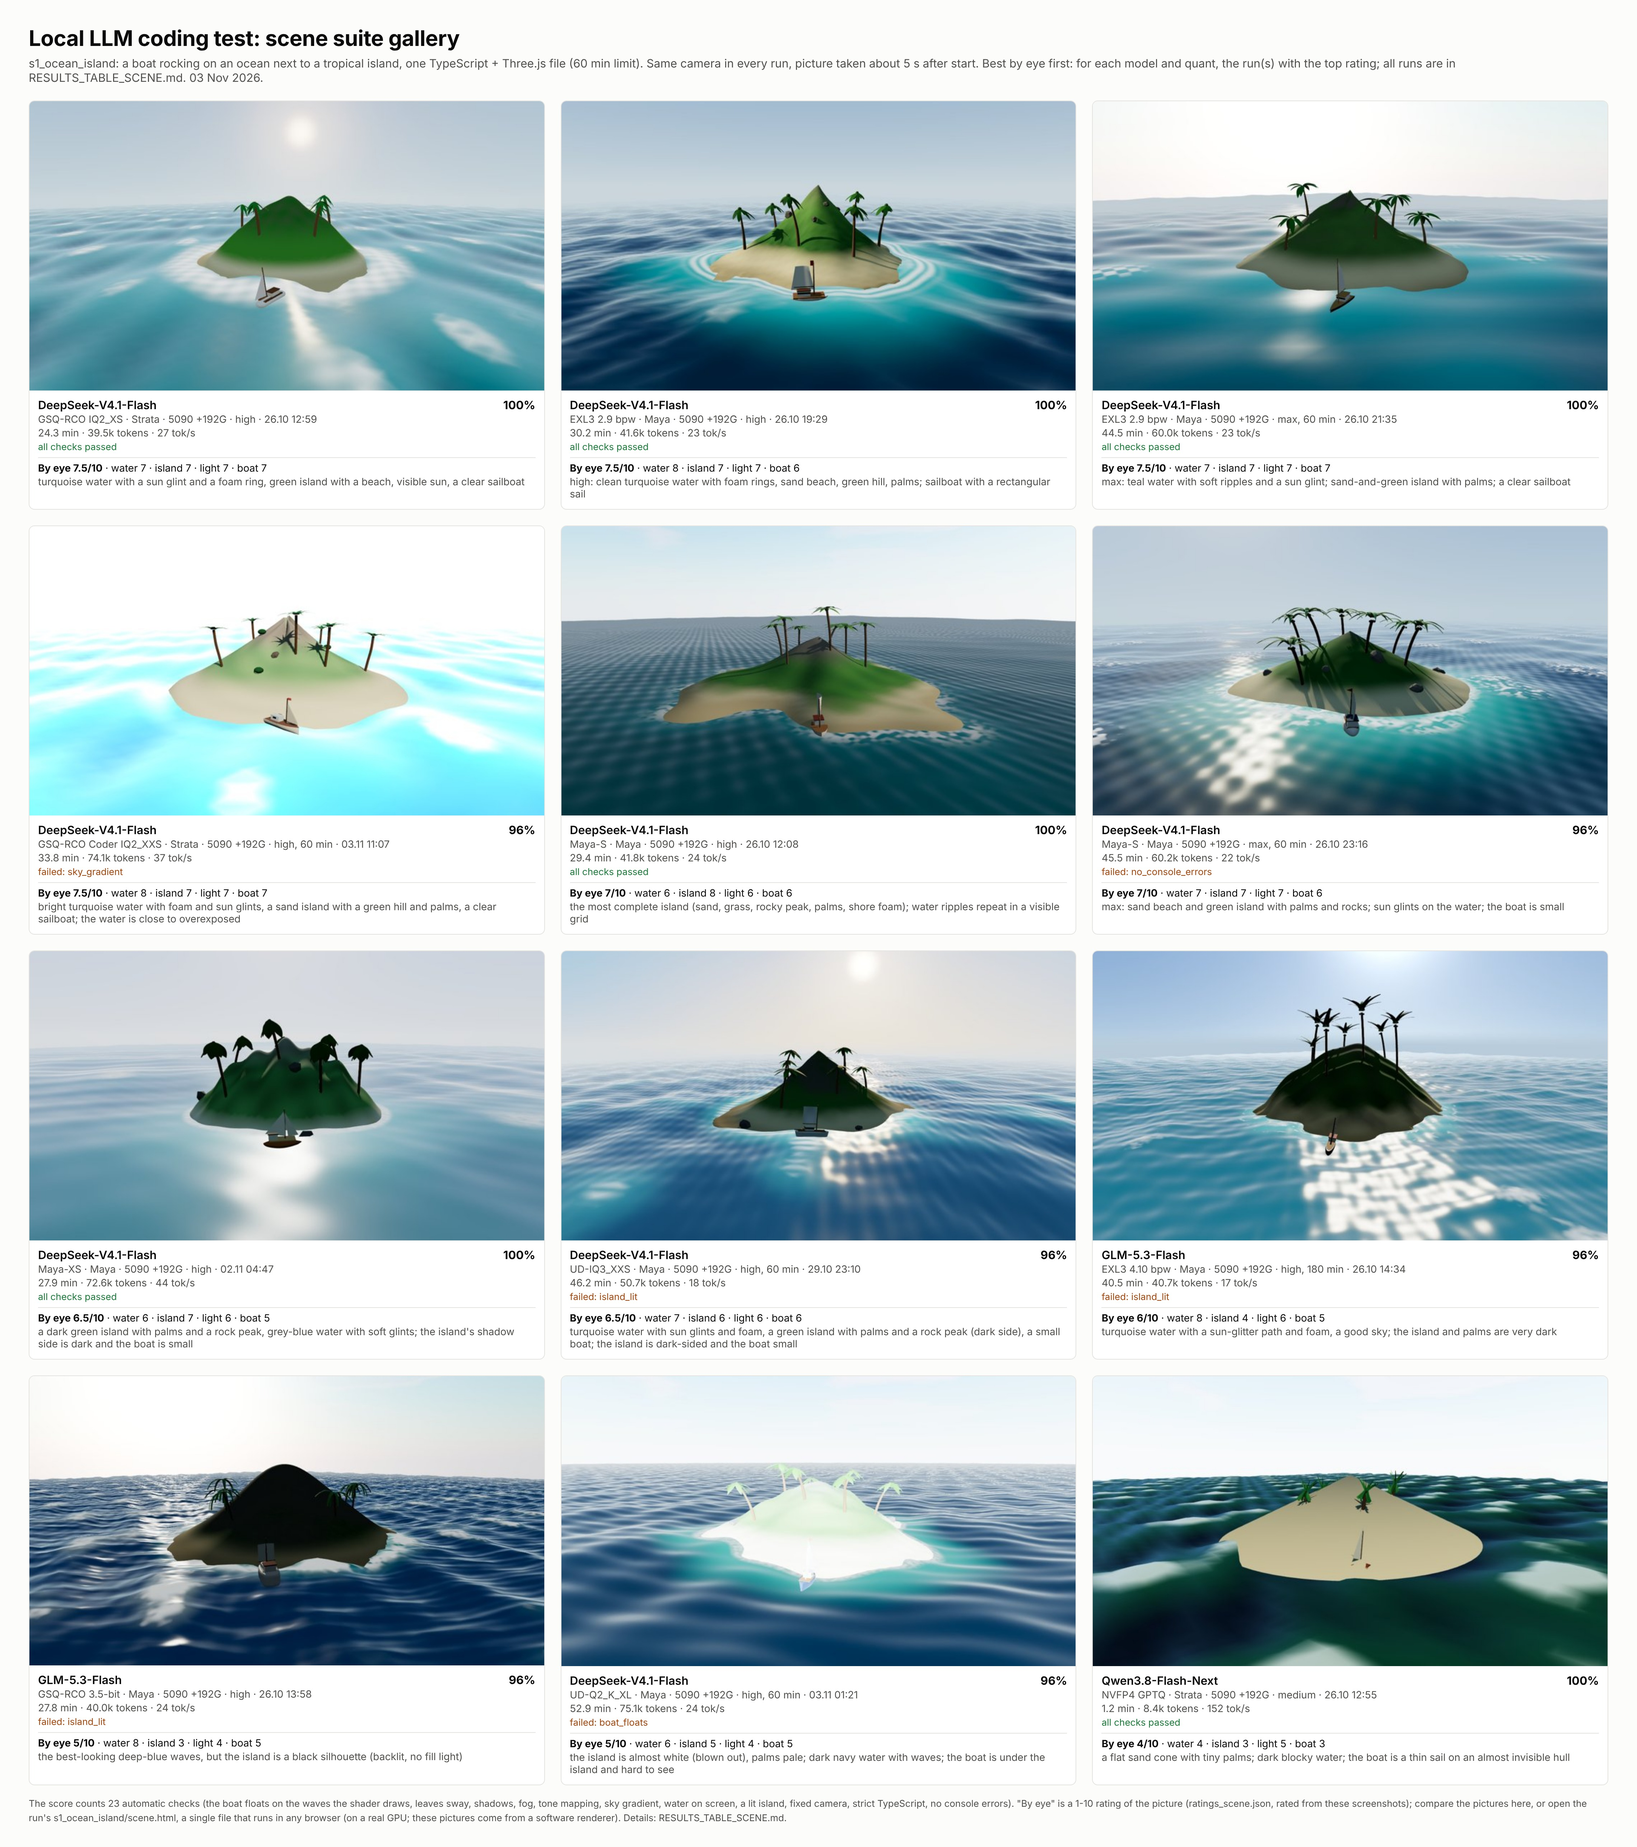
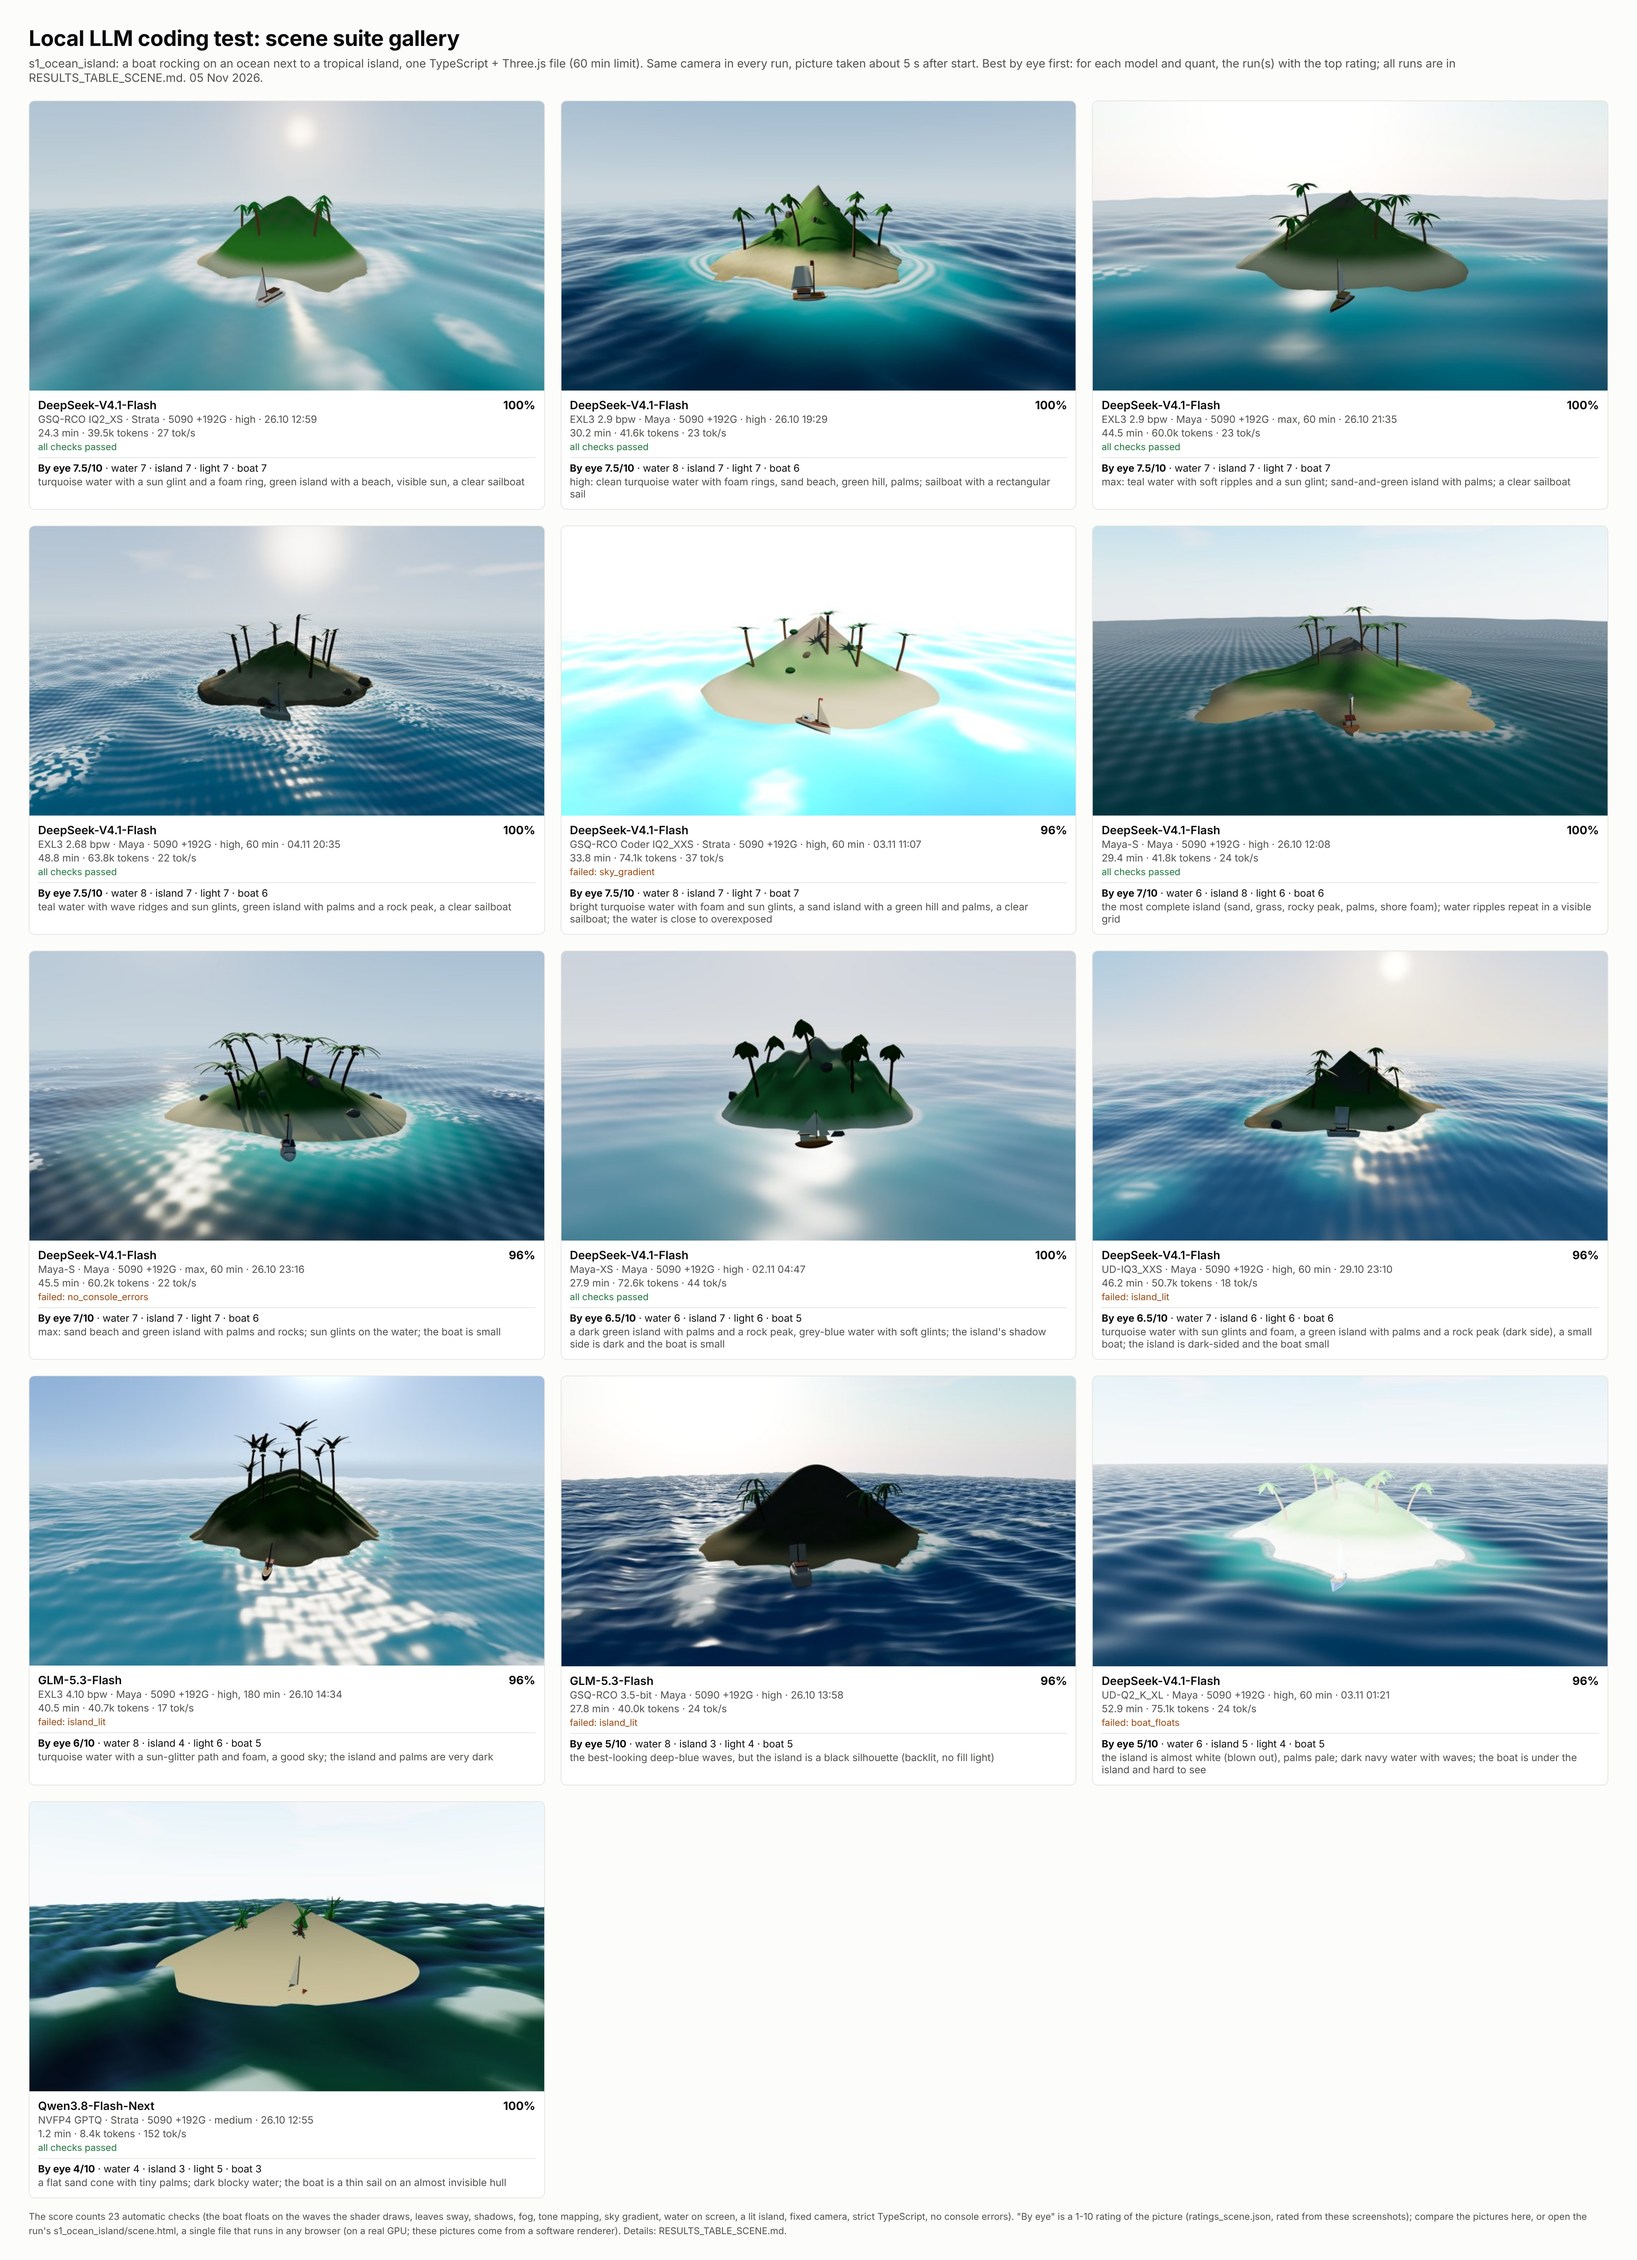
Tables and galleries: EXL3 2.68 bpw (turboderp) and EXL3 2.9 bpw (LibertAIDAI) runs
New engineering and scene runs for both files, rated by eye:
turboderp 2.68 watch 7, rocket 7, scene 7.5; LibertAIDAI 2.9 watch 5,
rocket 6, scene 6.5. Regenerated the tables and the galleries.

Claude-Session: https://claude.ai/code/session_01Hw6zjR7HPW2DCjpvk73ycY

diff --git a/RESULTS_TABLE_ENGINEERING.md b/RESULTS_TABLE_ENGINEERING.md
@@ -91,12 +91,14 @@ How real it looks, 1-10 per task (from [ratings_engineering.json](ratings_engine
 
 | Run | Model | Quant | Backend | Effort | Watch score | Watch by eye | Rocket score | Rocket by eye | Notes |
 |---|---|---|---|---|---|---|---|---|---|
+| 04.11 18:31 | DeepSeek-V4.1-Flash | EXL3 2.68 bpw | Maya | high | 86% | **7** | 95% | **7** | watch: full movement in the exploded view with labelled parts; clear wheel train, balance and escapement; labels overlap in the upper right and the plate is plain; rocket: pad, tower and rocket readable at 1 s, 2 s and 4 s, a small plume at 4 s; above 100 km the rocket against stars with a glow, no horizon in the frame |
 | 03.11 15:24 | DeepSeek-V4.1-Flash | UD-IQ3_XXS | Maya | high | 100% | **7** | 95% | **6.5** | watch: full movement in the exploded view with labels; gilded plate, gear train, blued screws, balance and hairspring read clearly; plain finish, parts small in the frame; rocket: pad, tower and plume stay readable at 1.2 s, 2 s and 4 s (white flame blobs at liftoff); above 100 km a dark sky with stars and the Earth's limb, with a glare in the upper left |
 | 28.10 19:55 | DeepSeek-V4.1-Flash | Maya-S | Maya | high | 100% | **6** | 100% | **6.5** | watch: perlage plate, gilded barrel with the mainspring, blued hairspring and steel parts, labels; the plate reads as silver rather than brass; rocket: tower, masts with wires, a rocket with a warm plume, grass and haze; steam is faint; above 100 km a dark blue sky with stars and the trail |
 | 02.11 23:34 | DeepSeek-V4.1-Flash | UD-Q2_K_XL | Maya | high | 95% | **6** | 95% | **6.5** | watch: gold plate with a dense grain, labelled train and balance, clear wheels and a crown; the grain looks knurled; rocket: pad with a lattice tower and masts with wires, a rocket with a white plume and haze; above 100 km the Earth's limb, stars and a bright trail |
 | 28.10 02:05 | DeepSeek-V4.1-Flash | Maya-S | Maya | high | 95% | **6** | 94% | **6.5** | watch: perlage plate (too coarse, looks knurled), Geneva-striped bridges, wheels visible between them, blued hands and hairspring; rocket: lattice tower, white rocket with a flag, a bright plume with a warm glow, haze; little steam; in space the sun, stars and the trail |
 | 28.10 03:57 | DeepSeek-V4.1-Flash | Maya-S | Maya | max | 100% | **5** | 94% | **6** | watch: gilded plate with perlage and a domed glass rim, but a strong depth-of-field blur hides the mechanism; rocket: tower, lightning masts with wires, low buildings, a white-hot plume; above 100 km the sky is still dark blue |
 | 29.10 01:14 | DeepSeek-V4.1-Flash | EXL3 2.9 bpw | Maya | max | 95% | **4.5** | 95% | **6.5** | watch: a small gold movement on a brown background, shadows, labels; the file fails to compile (TS7053), but the picture renders; rocket: a Falcon 9 on a pad with a lattice tower, masts with wires, a concrete flame trench, a white-hot plume; above 100 km the Earth's limb and a bright trail; the plume is very white, no steam |
+| 05.11 07:21 | DeepSeek-V4.1-Flash | EXL3 2.9 bpw | Maya | high | 100% | **5** | 89% | **6** | watch: exploded view with labels, but the wheels and bridges read as soft flat blobs; train and escapement are hard to tell apart; rocket: pad, tower and plume readable at 1 s and 4 s; above 100 km the view is low over blocky terrain and sea, not space |
 | 30.10 02:01 | DeepSeek-V4.1-Flash | UD-IQ3_XXS | Maya | high | 100% | **6.5** | 68% | **3** | watch: gilded plate with clear bridges, a gear train and blued parts, the balance and the stud read well; the finish is plain and the mechanism is small in the frame; rocket: launch frames are white haze (pad, tower and plume hardly visible at 2 s and 4 s); above 100 km a flame glow and the Earth's limb, but with stripe artefacts on the ground and a flat horizon |
 | 30.10 23:19 | GLM-5.3-Flash | EXL3 4.10 bpw | Maya | high | 14% | **4.5** | 84% | **4.5** | watch: gold plate with a hexagon pattern, a sparse gear train and labels; the balance is hard to see; rocket: liftoff and pad frames washed out to white haze; above 100 km a dark sky, the Earth's limb and a rocket with a flame |
 | 02.11 00:04 | DeepSeek-V4.1-Flash | Maya-XS | Maya | high | 100% | **5** | 79% | **3** | watch: dark speckled plate with a visible train, labels and balance; the finish looks dirty rather than polished; rocket: at 2 s the frame is empty sky (rocket not in view); at 4 s the pad with steam clouds and the rocket; above 100 km a dark sky with the rocket and a plume |

diff --git a/RESULTS_TABLE_SCENE.md b/RESULTS_TABLE_SCENE.md
@@ -94,12 +94,14 @@ How the picture looks, 1-10 per part (from [ratings_scene.json](ratings_scene.js
 | 26.10 12:59 | DeepSeek-V4.1-Flash | GSQ-RCO IQ2_XS | Strata | high | 100% | **7.5** | 7 | 7 | 7 | 7 | turquoise water with a sun glint and a foam ring, green island with a beach, visible sun, a clear sailboat |
 | 26.10 19:29 | DeepSeek-V4.1-Flash | EXL3 2.9 bpw | Maya | high | 100% | **7.5** | 8 | 7 | 7 | 6 | high: clean turquoise water with foam rings, sand beach, green hill, palms; sailboat with a rectangular sail |
 | 26.10 21:35 | DeepSeek-V4.1-Flash | EXL3 2.9 bpw | Maya | max, 60 min | 100% | **7.5** | 7 | 7 | 7 | 7 | max: teal water with soft ripples and a sun glint; sand-and-green island with palms; a clear sailboat |
+| 04.11 20:35 | DeepSeek-V4.1-Flash | EXL3 2.68 bpw | Maya | high, 60 min | 100% | **7.5** | 8 | 7 | 7 | 6 | teal water with wave ridges and sun glints, green island with palms and a rock peak, a clear sailboat |
 | 03.11 11:07 | DeepSeek-V4.1-Flash | GSQ-RCO Coder IQ2_XXS | Strata | high, 60 min | 96% | **7.5** | 8 | 7 | 7 | 7 | bright turquoise water with foam and sun glints, a sand island with a green hill and palms, a clear sailboat; the water is close to overexposed |
 | 26.10 12:08 | DeepSeek-V4.1-Flash | Maya-S | Maya | high | 100% | **7** | 6 | 8 | 6 | 6 | the most complete island (sand, grass, rocky peak, palms, shore foam); water ripples repeat in a visible grid |
 | 26.10 23:16 | DeepSeek-V4.1-Flash | Maya-S | Maya | max, 60 min | 96% | **7** | 7 | 7 | 7 | 6 | max: sand beach and green island with palms and rocks; sun glints on the water; the boat is small |
 | 02.11 04:47 | DeepSeek-V4.1-Flash | Maya-XS | Maya | high | 100% | **6.5** | 6 | 7 | 6 | 5 | a dark green island with palms and a rock peak, grey-blue water with soft glints; the island's shadow side is dark and the boat is small |
 | 26.10 16:43 | DeepSeek-V4.1-Flash | EXL3 2.9 bpw | Maya | low | 100% | **6.5** | 7 | 6 | 7 | 6 | low: sun glint and foam rings around the island; palm crowns look bushy and odd; sailboat small but clear |
 | 26.10 22:20 | DeepSeek-V4.1-Flash | EXL3 2.9 bpw | Maya | high, 60 min | 100% | **6.5** | 5 | 7 | 7 | 7 | high: the water shows a checkered grid pattern (a repeating ripple texture); island with palms and rocks; sailboat clear |
+| 05.11 09:51 | DeepSeek-V4.1-Flash | EXL3 2.9 bpw | Maya | high, 60 min | 96% | **6.5** | 7 | 6 | 6.5 | 6 | blue water with wave ridges, dotted foam rings around the island, green island with palms, a small sailboat |
 | 29.10 23:10 | DeepSeek-V4.1-Flash | UD-IQ3_XXS | Maya | high, 60 min | 96% | **6.5** | 7 | 6 | 6 | 6 | turquoise water with sun glints and foam, a green island with palms and a rock peak (dark side), a small boat; the island is dark-sided and the boat small |
 | 27.10 00:01 | DeepSeek-V4.1-Flash | Maya-S | Maya | high, 60 min | 96% | **6.5** | 8 | 5 | 6 | 7 | high: turquoise water with strong glints, but the island's peak is almost black (lighting); sailboat clear |
 | 26.10 14:34 | GLM-5.3-Flash | EXL3 4.10 bpw | Maya | high, 180 min | 96% | **6** | 8 | 4 | 6 | 5 | turquoise water with a sun-glitter path and foam, a good sky; the island and palms are very dark |

diff --git a/RESULTS_TABLE_GLM.md b/RESULTS_TABLE_GLM.md
@@ -65,6 +65,6 @@ Mean score per suite, with the number of runs, the mean time and the mean tokens
 | Model | Quant | Backend | RAM | Effort | Runs | Mean | Min–max | Score @10 min/32k | Broken | Mean time (min) | Mean tokens | Avg tok/s (from time) | Problem tasks |
 |---|---|---|---|---|---|---|---|---|---|---|---|---|---|
 | GLM-5.3-Flash | GSQ-RCO 3.5-bit | Maya | 128 GB | high | 2 | **100.0%** | 100–100 | 100.0% | 0% | 3.0 | 1.2k | 6.7 | – |
-| GLM-5.3-Flash derisked | Maya-M | Maya | 128 GB | high | 4 | **99.6%** | 98–100 | 99.6% | 0% | 1.9 | 1.2k | 10.3 | – |
+| GLM-5.3-Flash derisked | Maya-M | Maya | 128 GB | high | 4 | **99.6%** | 98–100 | 99.6% | 0% | 2.0 | 1.2k | 10.3 | – |
 
 Score @10 min/32k = the score if every task had to finish within 10 minutes and 32,768 tokens. Broken = share of tasks where generation itself failed (out of tokens or time, stopped mid-thought, looped, no final answer). `~` = token count partly estimated. All other suites' tables: RESULTS_TABLE*.md.

diff --git a/RESULTS_TABLE_TOOLS.md b/RESULTS_TABLE_TOOLS.md
@@ -11,7 +11,7 @@ Hardware: RTX 5090 32 GB + 128 GB RAM, and RTX 4080 16 GB + 32 GB DDR5 (the GPU 
 | # | Model | Quant | Backend | GPU | Reasoning effort | Runs | Mean score | Min–max | Score @10 min/32k | Broken | Mean time (min) | Mean tokens | Avg tok/s (from time) | VRAM GB |
 |---|---|---|---|---|---|---|---|---|---|---|---|---|---|---|
 | 1 | GLM-5.3-Flash | GSQ-RCO 3.5-bit | Maya | RTX 5090 32 GB | high | 2 | **100.0%** | 100–100 | 100.0% | 0% | 3.0 | 1.2k | 6.7 | 31.2 |
-| 2 | GLM-5.3-Flash derisked | Maya-M | Maya | RTX 5090 32 GB | high | 4 | **99.6%** | 98–100 | 99.6% | 0% | 1.9 | 1.2k | 10.3 | 31.1 |
+| 2 | GLM-5.3-Flash derisked | Maya-M | Maya | RTX 5090 32 GB | high | 4 | **99.6%** | 98–100 | 99.6% | 0% | 2.0 | 1.2k | 10.3 | 31.1 |
 | 3 | DeepSeek-V4.1-Flash | Maya-S | Maya | RTX 5090 32 GB + 192 GB RAM | high | 4 | **99.6%** | 98–100 | 99.6% | 0% | 3.6 | 1.8k | 8.5 | 31.1 |
 
 ## Stability (settings run 2+ times)
